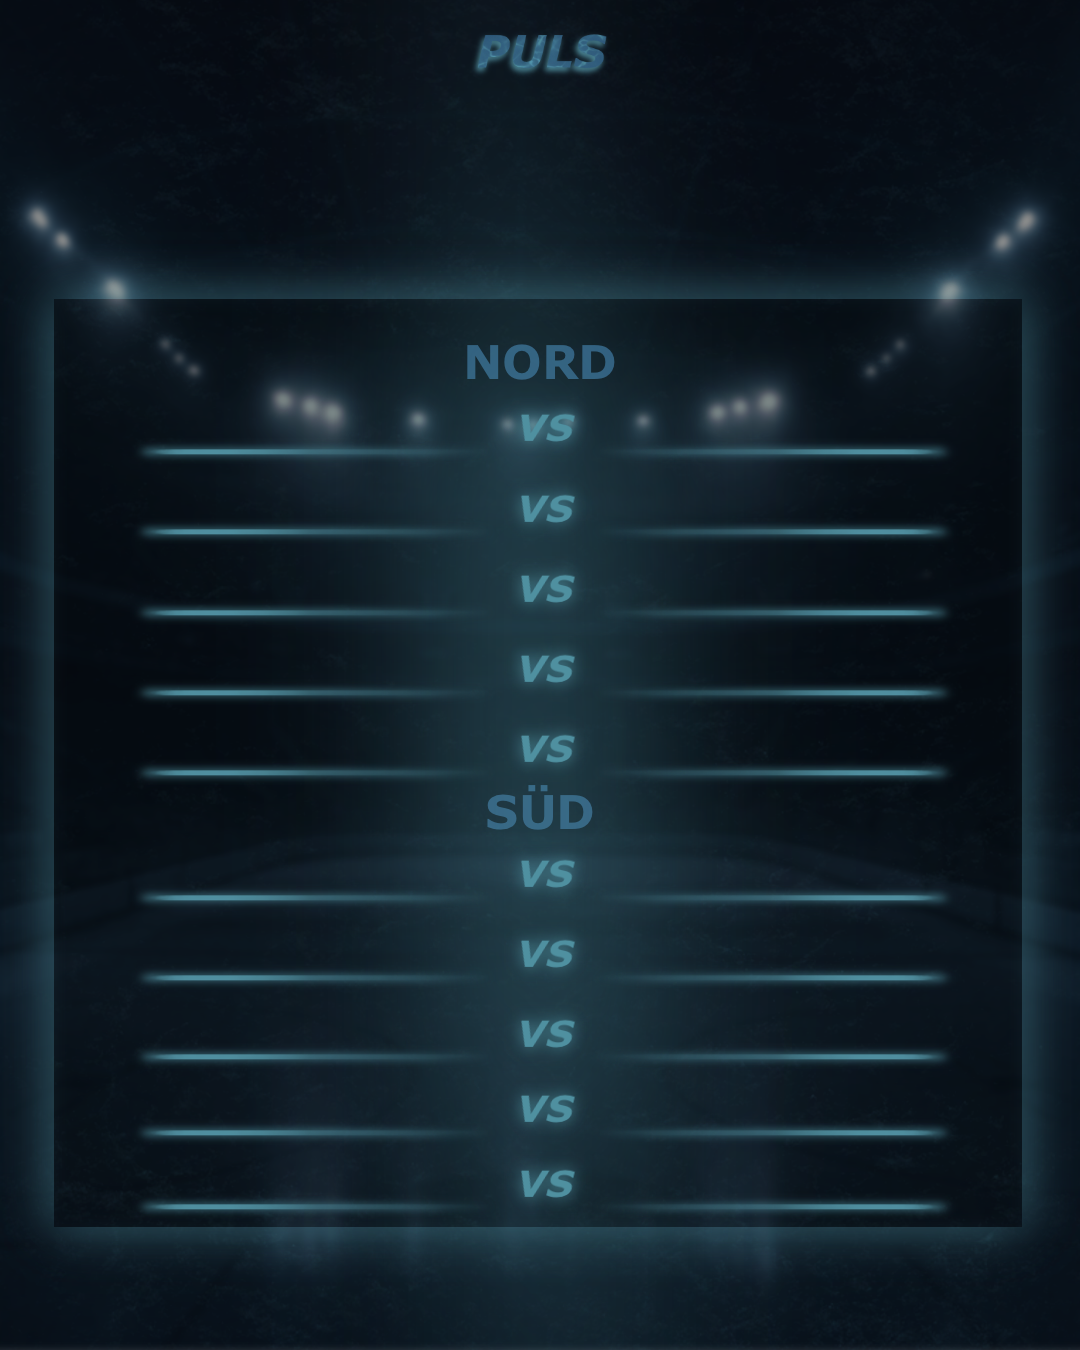
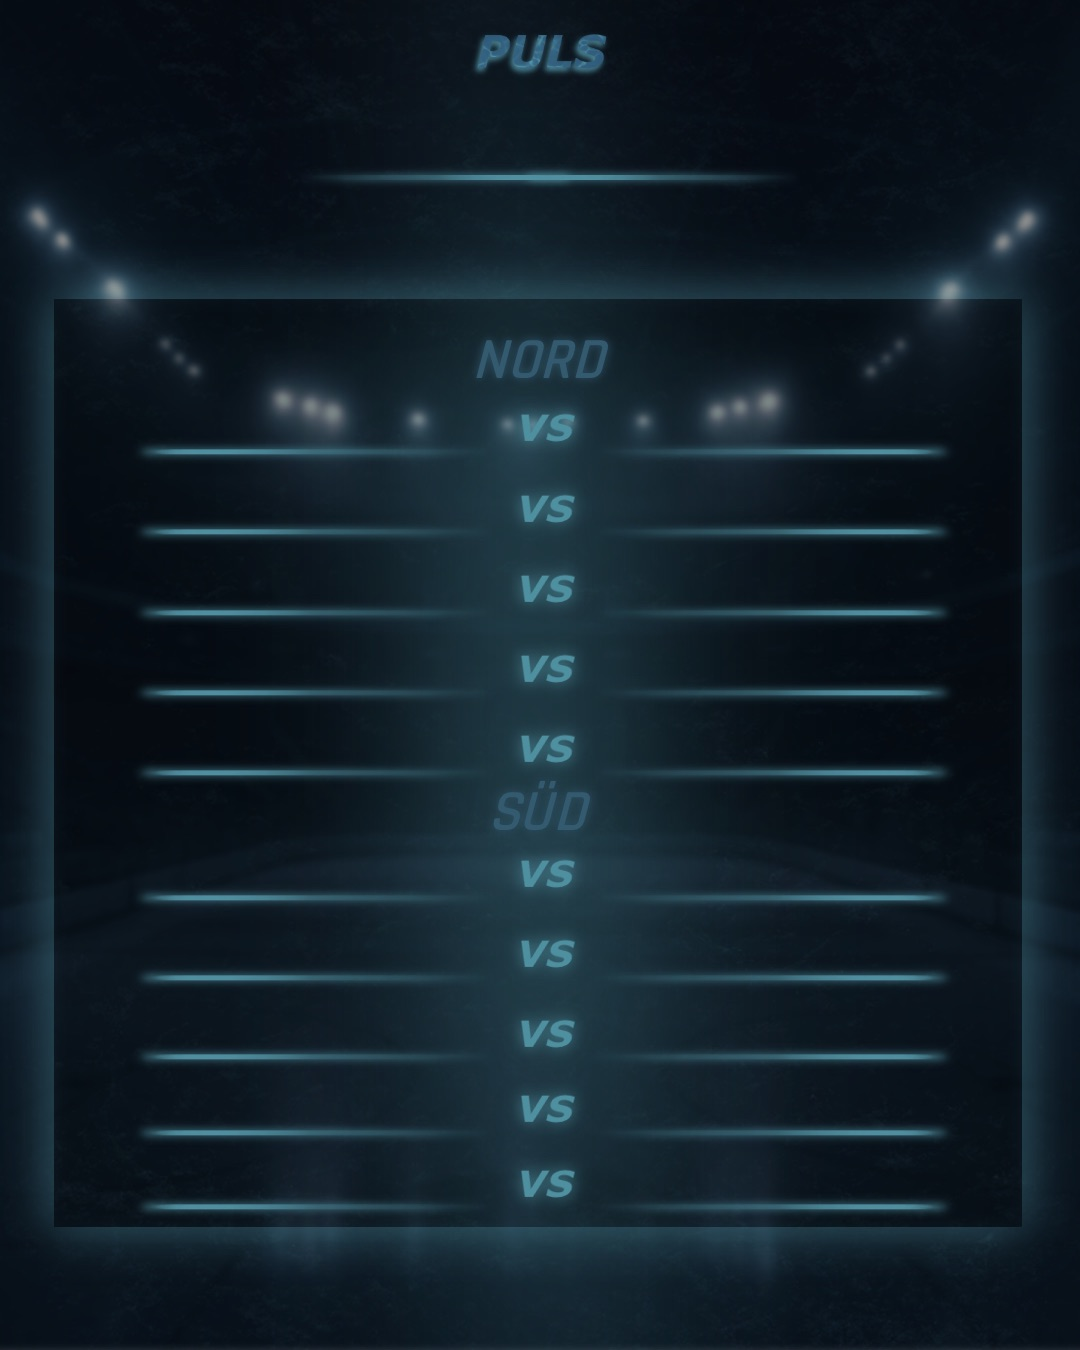
grafiken angepasst

Changed region(s): [[0.3056, 0.1244, 0.7028, 0.1556], [0.4278, 0.56, 0.55, 0.6222], [0.4278, 0.2489, 0.5806, 0.28]]

diff --git a/check_image_properties.py b/check_image_properties.py
@@ -1,0 +1,29 @@
+from PIL import Image
+
+def check_image(path):
+    img = Image.open(path)
+    print(f"Datei: {path}")
+    print(f"Format: {img.format}")
+    print(f"Größe (Pixel): {img.size}")
+    print(f"Modus (Farbraum): {img.mode}")
+    print(f"Info: {img.info}")
+
+    # Prüfe auf Transparenz
+    if img.mode in ("RGBA", "LA") or ("transparency" in img.info):
+        print("Transparenz: Ja")
+    else:
+        print("Transparenz: Nein")
+
+    # DPI auslesen (falls vorhanden)
+    dpi = img.info.get("dpi")
+    if dpi:
+        print(f"DPI: {dpi}")
+    else:
+        print("DPI: Nicht gesetzt")
+
+if __name__ == "__main__":
+    import sys
+    if len(sys.argv) < 2:
+        print("Usage: python check_image_properties.py <image.png>")
+    else:
+        check_image(sys.argv[1])
